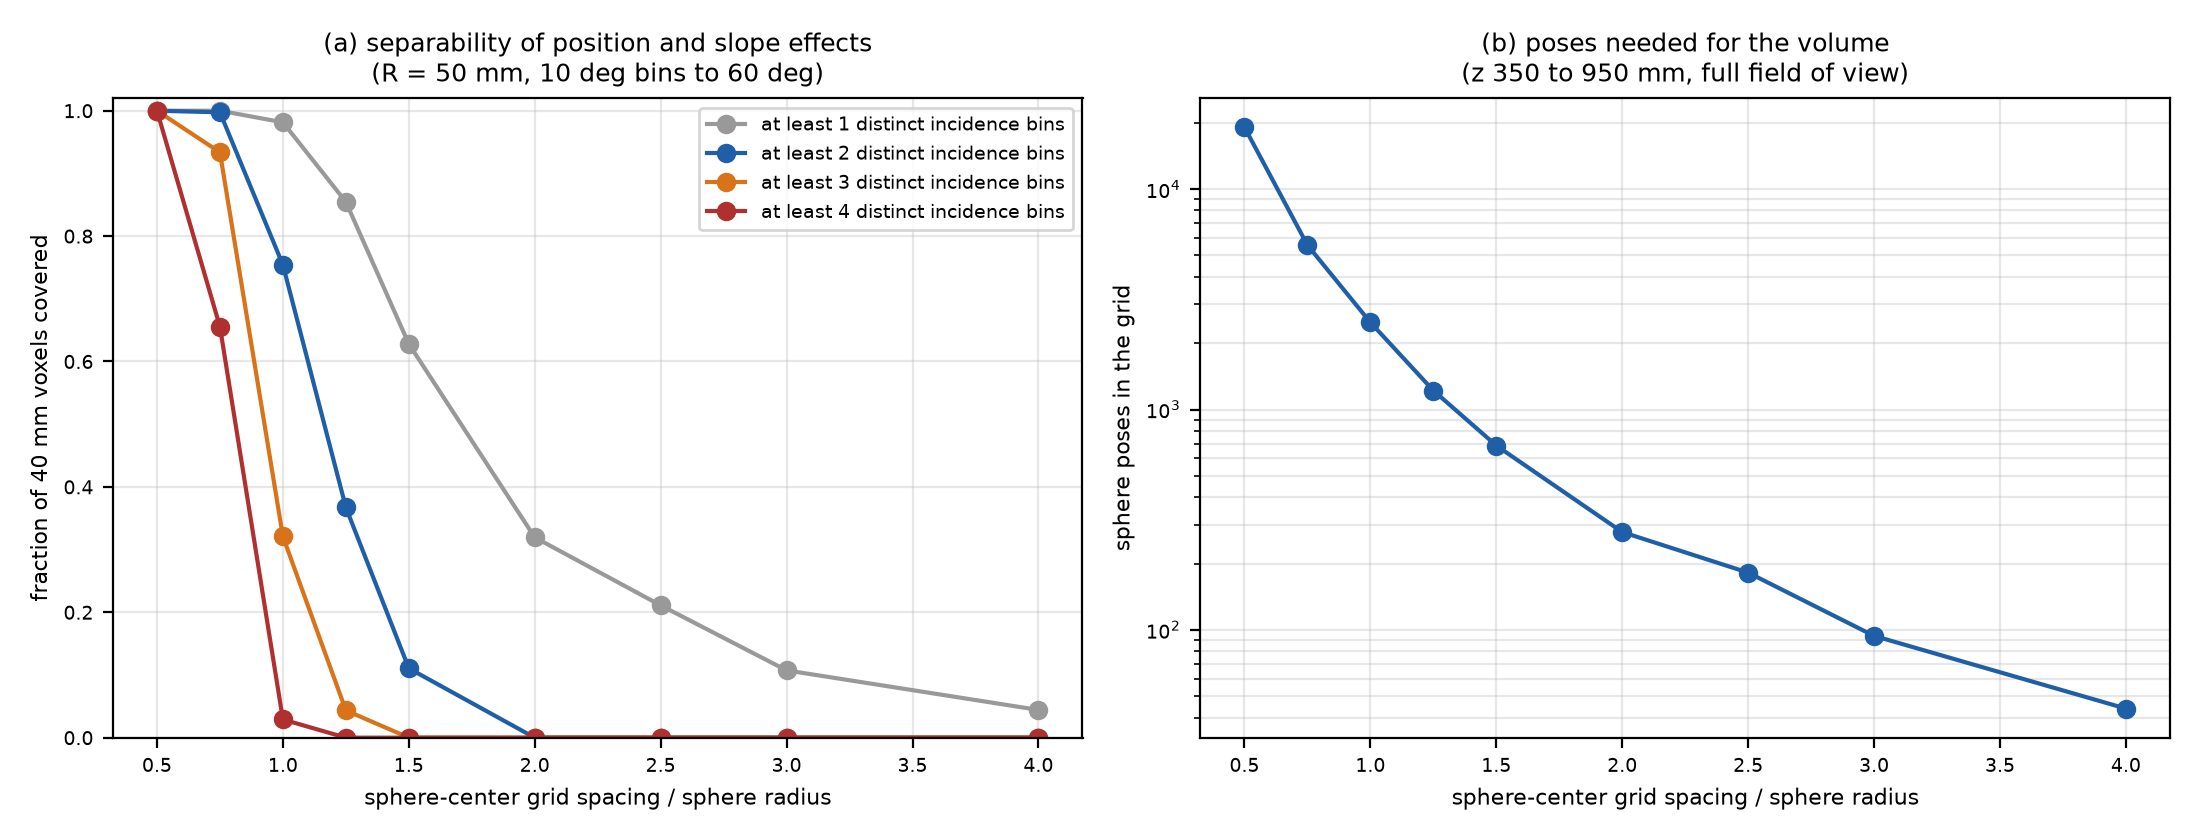
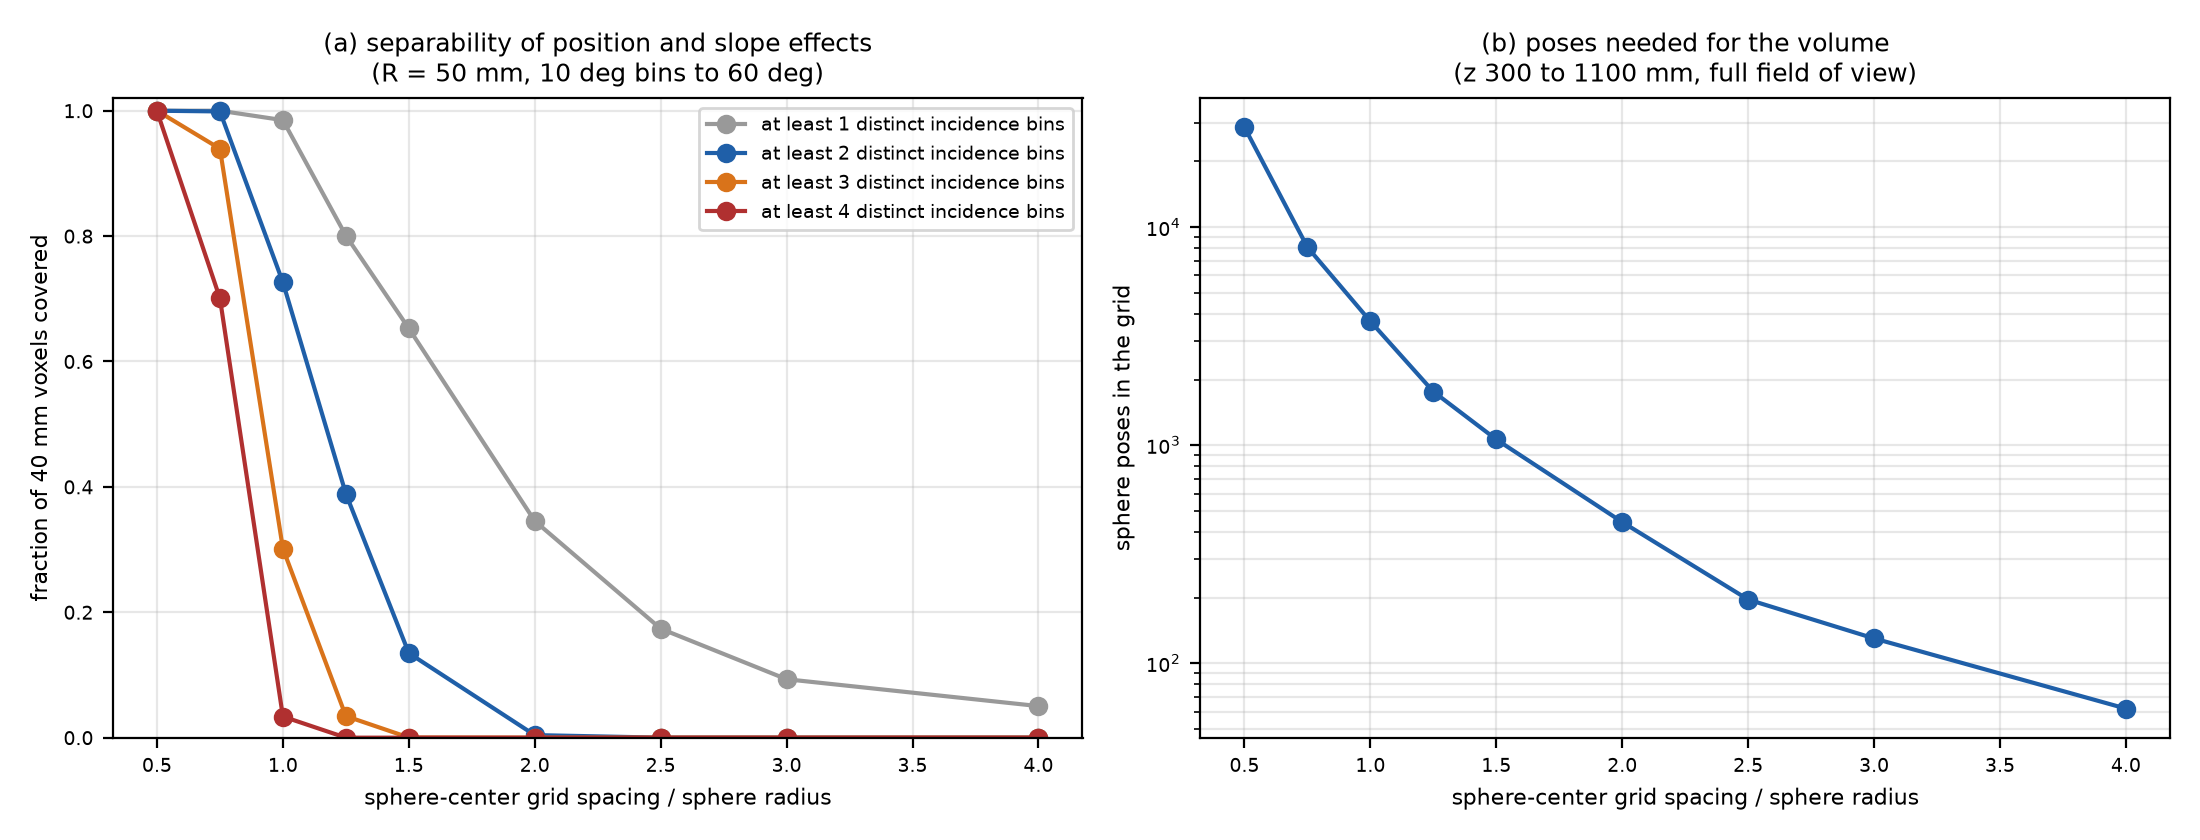
Record decisions: full-frustum volume and 5x5 normal estimator; regenerate coverage figure
Claude-Session: https://claude.ai/code/session_01LnkFMdRYsdw8VhXMWXEpNu

diff --git a/docs/analysis/figures/make_fig_pose_grid_coverage.py b/docs/analysis/figures/make_fig_pose_grid_coverage.py
@@ -31,7 +31,7 @@ import numpy as np
 from scipy.spatial import cKDTree
 
 # ---- Working volume (sensor frame, mm). A frustum: lateral extent grows with z.
-DEPTH_RANGE_MM = (350.0, 950.0)
+DEPTH_RANGE_MM = (300.0, 1100.0)   # decided working volume: the full frustum
 HALF_FOV_H_DEG = 49.9 / 2.0           # specification, indicative
 HALF_FOV_V_DEG = 38.5 / 2.0
 CENTER_OVERHANG_MM = 50.0             # centers may lie this far outside the frustum: a partly visible sphere still yields samples

diff --git a/docs/analysis/calibration_from_spherical_target_analysis.md b/docs/analysis/calibration_from_spherical_target_analysis.md
@@ -11,6 +11,8 @@ Decisions recorded so far (2026-10-04):
 - D-3. A few thousand samples (poses) is not impractical. Plan: test on a few hundred, then acquire a few thousand, then decide from the fitted map's held-out error whether a further order of magnitude helps (section 7.6).
 - D-4. The correction is fitted and applied at native pixels (A5). Consequence: 307,200 points per frame at runtime, and the fit must account for the fact that the 16 native pixels of an effective cell are not independent samples (section 7.2).
 - D-5. Accuracy target: residual systematic error of 0.1 mm at 500 mm standoff (A8). Assumption until stated otherwise: the target scales with standoff as the noise does, that is roughly as z^2, giving about 0.04 mm at 310 mm and 0.4 mm at 1 m; the working volume is still open.
+- D-7. Working volume: the full frustum from 300 to 1,100 mm standoff (A6). Figure 2 and the pose counts of section 7.3 are now computed for this volume.
+- D-8. Downstream normals come from a plane fit over a 5 x 5 native-pixel window (A4). Consequence: that window spans little more than one effective 4 x 4 cell, so the downstream normal is dominated by the sensor's interpolation between cells and carries an indicative random error of about 1 to 3 degrees (section 4b, item 5); the slope that indexes the correction map should use a larger window, and the planar validation must report normal error with the 5 x 5 estimator.
 - D-6. The board's pose is commanded by the positioner, not fitted. Consequence: every board frame is a full observation of the error field over the board's area, with no unobservable plane parameters (D2).
 
 Figures in `figures/` are generated by the co-located `make_fig_*.py` scripts: figure 1 `fig_sphere_view_effects.png`, figure 2 `fig_pose_grid_coverage.png`, figure 3 `fig_spline_complexity.png`, figure 4 `fig_sphere_radius_choice.png`. Every number in them that comes from the specification is marked indicative.
@@ -64,11 +66,11 @@ A2. Accuracy of the known centers. The positioner's absolute accuracy, the offse
 
 A3. Meaning of (h, v, z). Three readings are possible: image coordinates (column, row) with z along the optical axis; angular coordinates; or Cartesian sensor-frame coordinates. They are equivalent for a B-spline given enough knots, but they differ in how many knots a given error pattern needs. The errors of a stereo sensor are organized by the image grid (rectification, lens, matching window), so image coordinates with a depth coordinate are the economical choice. Default: (u, v) in native pixels and a depth coordinate with knots placed at data quantiles (section 5, item M2). Also unstated: whether the inputs are the measured values (necessarily, at runtime) and whether the training inputs are measured or predicted. For the correction map the inputs must be measured values, since that is what is available at runtime; for the no-read map they must be predicted values (A9).
 
-A4. Which normal. A stereo sensor does not measure normals; they are computed from the depth image by an estimator with a window. The normal error therefore depends on the estimator as much as on the sensor, and a map indexed by "measured normal" is a map for one estimator. Two different estimators (the one used to index the map and the one used downstream) would also disagree. Default: index the map by the slope of the depth image itself, computed with a fixed, documented window over effective cells, and state that the map is specific to that window. If the downstream pipeline uses a different normal estimator, it should run on corrected points and is then outside the map.
+A4. Which normal. A stereo sensor does not measure normals; they are computed from the depth image by an estimator with a window. The normal error therefore depends on the estimator as much as on the sensor, and a map indexed by "measured normal" is a map for one estimator. Two different estimators (the one used to index the map and the one used downstream) would also disagree. Decided (D-8): the downstream estimator is a plane fit over a 5 x 5 native-pixel window. Since the depth image carries about one independent sample per 4 x 4 block, a 5 x 5 window sees one to two independent values per axis, and its slope is close to the difference of adjacent cell values divided by the cell pitch. Indicative random error of the resulting normal: about 1.3 degrees at 500 mm and 2.5 degrees at 1 m from temporal noise alone (cell noise times the square root of two, divided by the cell footprint), before the fixed-pattern staircase, which adds a deterministic, position-dependent tilt. For the map, two slope inputs are therefore defined separately from the downstream normal: the slope of the depth image over a window spanning at least three effective cells (12 or more native pixels), which is smooth enough to index a spline without injecting noise bias. The downstream 5 x 5 normal is then computed on corrected points and is what the planar validation reports.
 
 A5. Correction per native pixel or per effective cell. The depth is upsampled from about 160 x 120 independent samples to 640 x 480. A correction per native pixel treats interpolated values as measurements. Decided (D-4): native pixels. The map is evaluated at every native pixel. For the fit, two consequences. First, the samples are the native pixels, but the sensor produces about one independent depth sample per 4 x 4 block, so the native pixels within a block carry nearly the same error; the fit must either weight each pixel by about one sixteenth, or thin the samples to one per block, or estimate the effective number of independent samples from the measured spatial correlation, otherwise the coefficient standard errors and the cross-validation score will be overconfident by a factor of up to four in standard error. Second, the (u, v) resolution of the map is still bounded by the sensor's effective resolution: knots finer than the effective cell fit the interpolation kernel, not the sensor, so the (u, v) knot spacing should not go below the measured effective cell even though the map is applied per pixel.
 
-A6. Calibrated volume and incidence range. The field of view at 1 m is about 930 x 700 mm, and the noise data extend to 1.9 m. Calibrating the whole frustum to 1.9 m needs a large positioner and thousands of poses (section 7.3). Default: calibrate the working volume actually used by the application, with a stated margin, and record the map's domain so that use outside it is detected. For incidence, samples beyond a cut-off angle are discarded; the cut-off is a parameter (default 60 to 65 degrees) chosen below the measured no-read onset so that selection bias near the threshold (A10) does not enter the correction map.
+A6. Calibrated volume and incidence range. The field of view at 1 m is about 930 x 700 mm, and the noise data extend to 1.9 m. Calibrating the whole frustum to 1.9 m needs a large positioner and thousands of poses (section 7.3). Decided (D-7): the full frustum from 300 to 1,100 mm. The field of view spans 279 x 209 mm at 300 mm and 1,023 x 768 mm at 1,100 mm, so the positioner must carry the sphere across about a meter laterally at the far end and the sphere must be small enough to be placed at distinct positions at the near end (section 9). The map's domain is recorded with it so that use outside it is detected. For incidence, samples beyond a cut-off angle are discarded; the cut-off is a parameter (default 60 to 65 degrees) chosen below the measured no-read onset so that selection bias near the threshold (A10) does not enter the correction map.
 
 A7. Material, albedo, exposure, unit, and time. The slope dependence of an active stereo sensor depends on the target's reflectance, the exposure settings, the particular unit, and possibly temperature and warm-up. The specification notes that a second unit did not follow the first unit's noise law. Default: one map per unit, per exposure mode, taken after warm-up, on a matte sphere whose albedo is within the range of the parts to be measured; record all of these with the map.
 
@@ -152,13 +154,13 @@ S7. Runtime. For each cell: evaluate the map at (u, v, measured depth, measured 
 
 7.2 Samples per coefficient. For a coefficient to be determined to a standard error s from independent samples of standard deviation sigma, about (sigma / s)^2 samples must fall within its basis support. With the target of D-5 at 500 mm, s = 0.1 mm against sigma = 0.045 mm per effective cell: one independent sample suffices face-on, and at 60 degrees the product factor of 4.9 (figure 1b) raises the requirement to about five. If the target scales as z^2 the same counts hold at every standoff. These are counts of independent samples, that is effective cells, not native pixels (D-4). These are small; the data demand is not set by noise. Conditioning adds a floor: every knot interval in every dimension should contain several samples (the Schoenberg-Whitney condition is one per basis function, with interlacing; in practice at least the spline order per interval).
 
-7.3 Separability sets the pose count. On one view, incidence is a function of the position on the sphere's image. Figure 2 places sphere centers on a cubic grid in a frustum from 350 to 950 mm over the full field of view, with R = 50 mm, and counts for each 40 mm voxel how many distinct 10 degree incidence bins (up to 60 degrees) the visible sphere surfaces through it present. At grid spacing equal to R, 2,500 poses, only 32 percent of voxels see three or more bins; at spacing 0.75 R, 5,600 poses, 93 percent do; at 0.5 R, 19,000 poses, all do. For a fully nonparametric five-way map resolved at 40 mm in position and 10 degrees in incidence, the pose count is therefore in the thousands. The counts scale as the inverse cube of the spacing and so as the inverse cube of R for a fixed spacing-to-radius ratio: a 100 mm sphere needs an eighth as many poses, at the cost of each pose covering a larger patch (which couples position and slope within the view less tightly, a benefit) and of fewer samples per cell near the limb. For the sum-of-terms form (M3), separability is needed only on a representative subset of voxels, and a few hundred poses suffice; figure 3c (blue) puts the noise-and-conditioning floor at about 40 to 400 poses for 4 to 12 intervals per dimension.
+7.3 Separability sets the pose count. On one view, incidence is a function of the position on the sphere's image. Figure 2 places sphere centers on a cubic grid in the decided frustum from 300 to 1,100 mm over the full field of view (D-7), with R = 50 mm, and counts for each 40 mm voxel how many distinct 10 degree incidence bins (up to 60 degrees) the visible sphere surfaces through it present. At grid spacing equal to R, 3,700 poses, only 30 percent of voxels see three or more bins; at spacing 0.75 R, 8,100 poses, 94 percent do; at 0.5 R, 29,000 poses, all do. For a fully nonparametric five-way map resolved at 40 mm in position and 10 degrees in incidence, the pose count is therefore in the thousands. The counts scale as the inverse cube of the spacing and so as the inverse cube of R for a fixed spacing-to-radius ratio: a 100 mm sphere needs an eighth as many poses, at the cost of each pose covering a larger patch (which couples position and slope within the view less tightly, a benefit) and of fewer samples per cell near the limb. For the sum-of-terms form (M3), separability is needed only on a representative subset of voxels, and a few hundred poses suffice; figure 3c (blue) puts the noise-and-conditioning floor at about 40 to 400 poses for 4 to 12 intervals per dimension.
 
 7.4 Fixed pattern, if required from spheres. About 5,000 poses (D2). Not recommended.
 
 7.5 Frames per pose. Temporal averaging over F frames reduces only the temporal noise, by sqrt(F) for independent frames; the fixed pattern does not average. Since the map is fitted across cells anyway, more poses are worth more than more frames. Five to ten frames per pose give the per-cell variance for the weights and reduce the temporal part enough; beyond that the return is small.
 
-7.6 A staged campaign (D-3). Stage 1, a few hundred sphere poses plus board frames, to exercise the code, measure the per-cell variances, fit the lower-order terms, and estimate from the held-out error how the residual falls with pose count. Stage 2, a few thousand poses, which figure 2 shows is the scale at which a fully nonparametric five-way map becomes separable at 40 mm and 10 degree resolution with a 50 mm sphere (spacing 0.75 R, about 5,600 poses over the full frustum; fewer over a smaller working volume or with a larger sphere). Stage 3, a decision on a further order of magnitude, made from the stage 2 held-out error curve: if the error is still falling with pose count, more poses help; if it has flattened at the noise floor or at the positioner's accuracy, they do not. The original first-campaign sketch follows. One matte sphere, R = 50 mm, and a second of R = 100 mm for the curvature check; centers on a grid of spacing R over the working volume at five depth planes (a few hundred poses for a working volume smaller than the full frustum; figure 2b gives the full-frustum counts); ten frames per pose; a random held-out set of 20 percent of poses; a tilted flat board at three tilts and three depths as the planar held-out target. Before any of it: the spatial spectrum of the existing board residual (D2) and the depth-quantum question (A11).
+7.6 A staged campaign (D-3). Stage 1, a few hundred sphere poses plus board frames, to exercise the code, measure the per-cell variances, fit the lower-order terms, and estimate from the held-out error how the residual falls with pose count. Stage 2, a few thousand poses, which figure 2 shows is the scale at which a fully nonparametric five-way map becomes separable at 40 mm and 10 degree resolution with a 50 mm sphere (spacing 0.75 R, about 8,100 poses over the full 300 to 1,100 mm frustum; a 100 mm sphere for the far half of the volume would cut the far-range share of that count by about eight). Stage 3, a decision on a further order of magnitude, made from the stage 2 held-out error curve: if the error is still falling with pose count, more poses help; if it has flattened at the noise floor or at the positioner's accuracy, they do not. The original first-campaign sketch follows. One matte sphere, R = 50 mm, and a second of R = 100 mm for the curvature check; centers on a grid of spacing R over the working volume at five depth planes (a few hundred poses for a working volume smaller than the full frustum; figure 2b gives the full-frustum counts); ten frames per pose; a random held-out set of 20 percent of poses; a tilted flat board at three tilts and three depths as the planar held-out target. Before any of it: the spatial spectrum of the existing board residual (D2) and the depth-quantum question (A11).
 
 ## 8. Space and time complexity of the B-spline model
 
@@ -196,8 +198,8 @@ Confidence: the sampling and field-of-view bounds are geometric and firm. The cu
 
 1. Answered (D-1): the corrected output is created in the sensor frame.
 2. Answered (D-2): a tilted board is acceptable as an alternative or additional target.
-3. Answered in part (D-5): 0.1 mm at 500 mm. Open: the working volume (A6), and whether the target scales with standoff.
-4. Open: which normal estimator and window does the downstream code use (A4)?
+3. Answered (D-5, D-7): 0.1 mm at 500 mm; full frustum 300 to 1,100 mm. Open: whether the target scales with standoff.
+4. Answered (D-8): plane fit over a 5 x 5 native-pixel window.
 5. Answered (D-4): native pixels.
 6. Open: positioner accuracy and the sphere mounting (A2).
 7. Open: is a sixth input for curvature acceptable (section 4b), which implies spheres of at least two radii?
